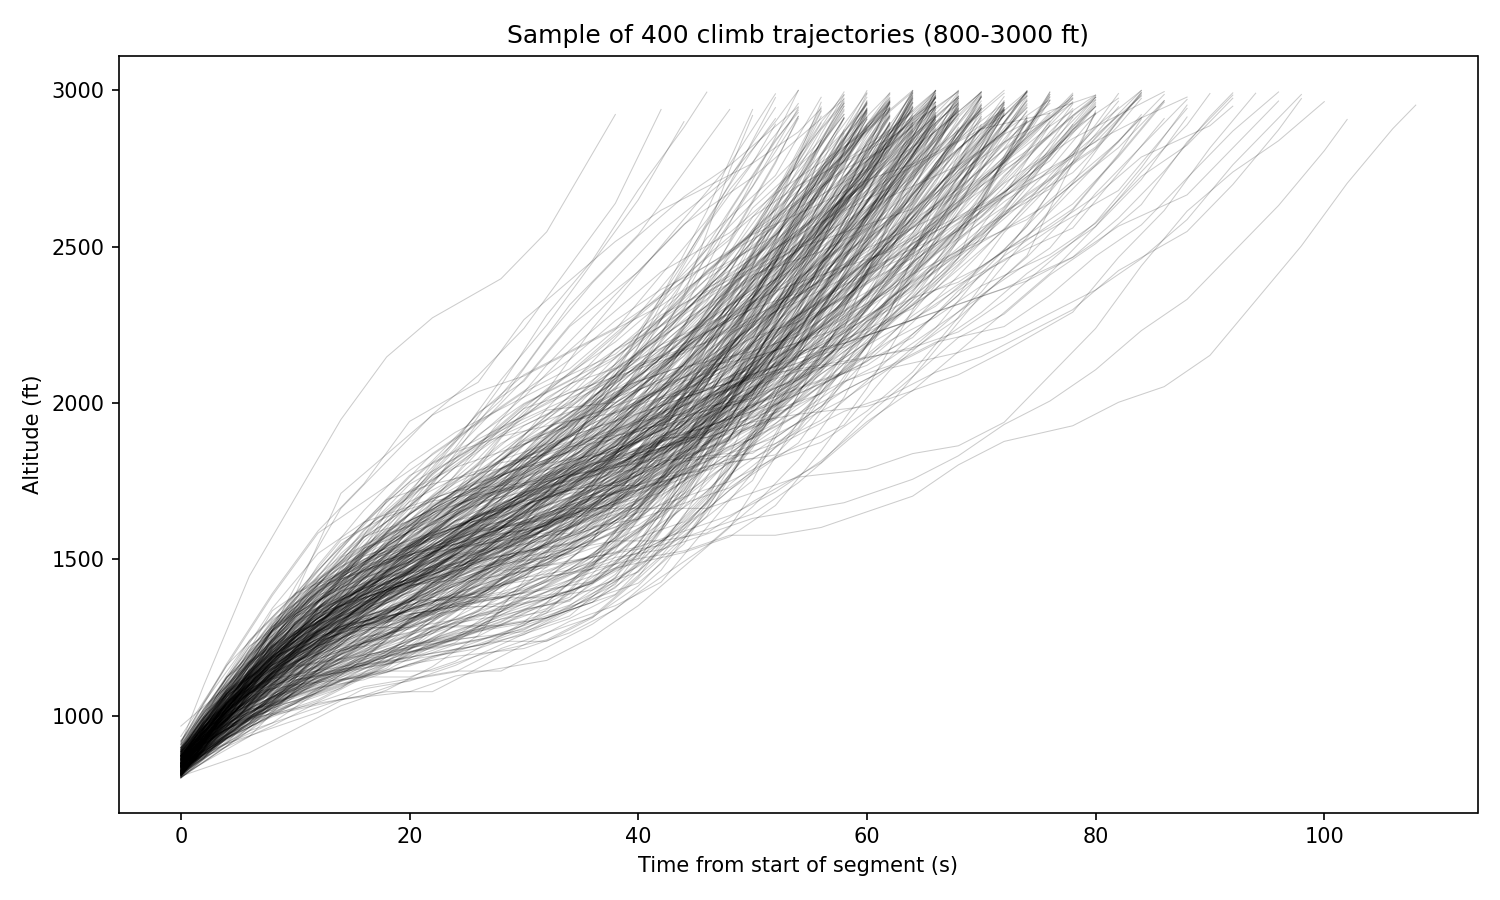
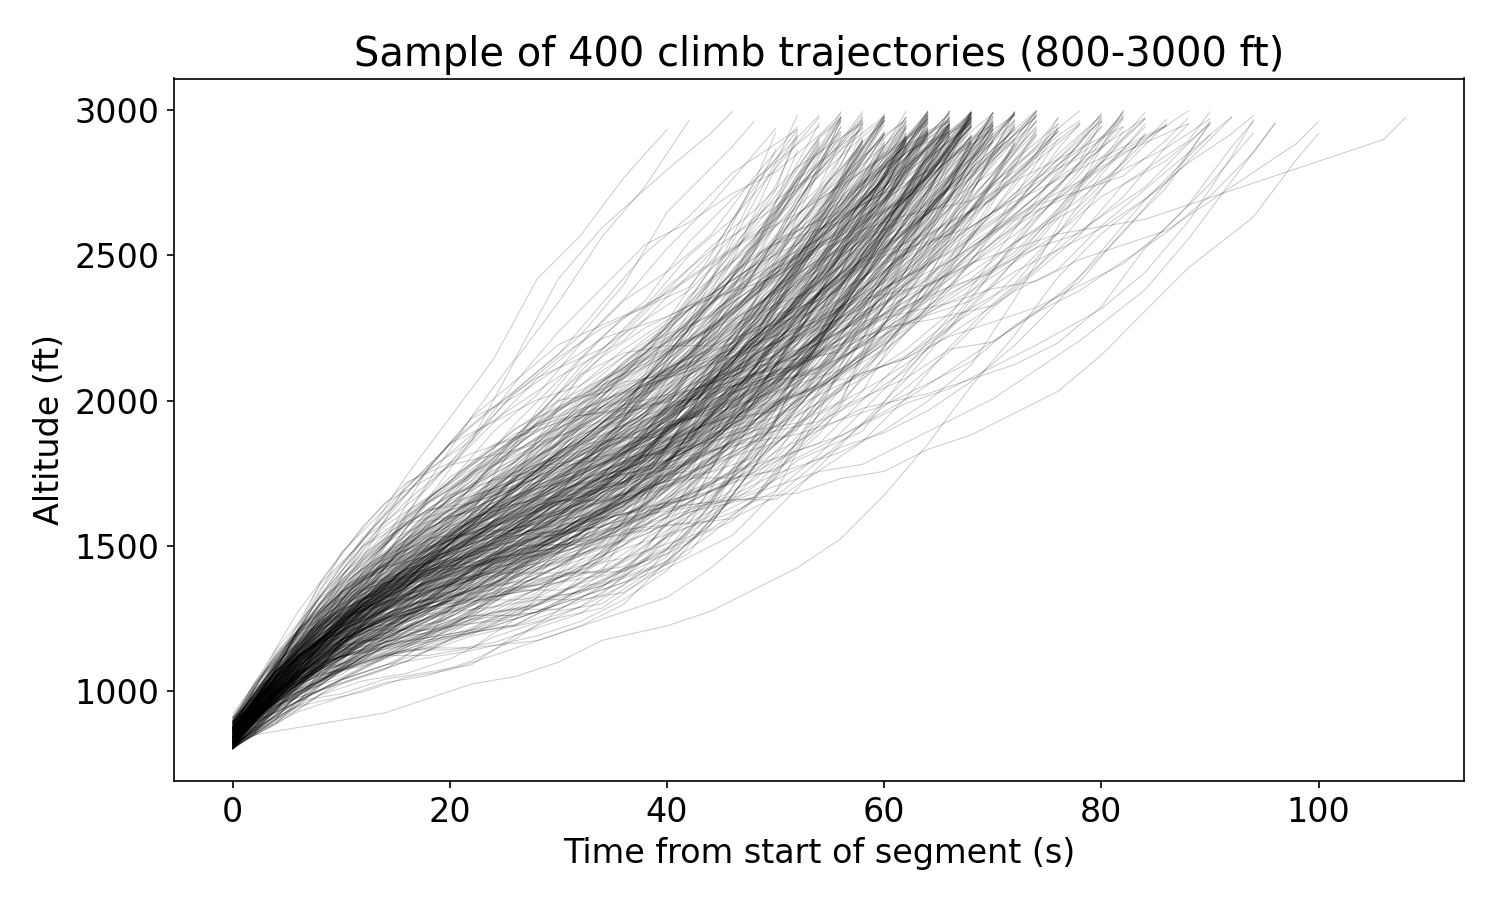
update figures

diff --git a/4_nadp_matching.py b/4_nadp_matching.py
@@ -1,11 +1,11 @@
 """
 
-This script processes aircraft climb trajectory data to classify flights 
-into NADP1 and NADP2 departure procedures using unsupervised clustering. 
-It loads trajectory data, extracts the significant climb phase for each flight, 
-and applies KMeans clustering to group similar climb profiles. 
+This script processes aircraft climb trajectory data to classify flights
+into NADP1 and NADP2 departure procedures using unsupervised clustering.
+It loads trajectory data, extracts the significant climb phase for each flight,
+and applies KMeans clustering to group similar climb profiles.
 
-The clusters are then mapped to NADP types based on vertical rate characteristics, 
+The clusters are then mapped to NADP types based on vertical rate characteristics,
 and the results are visualized and exported for further analysis.
 
 Steps:
@@ -22,6 +22,7 @@ Steps:
 
 # %%
 import os
+
 import matplotlib.pyplot as plt
 import numpy as np
 import pandas as pd
@@ -30,6 +31,9 @@ from traffic.core import Flight, Traffic
 
 # Create plots directory if it doesn't exist
 os.makedirs("plots", exist_ok=True)
+
+# increase matplotlib font size
+plt.rcParams.update({"font.size": 16})
 
 # %%
 t = Traffic.from_file("data/nadp_trajectories.parquet")
@@ -84,9 +88,11 @@ print(f"Cluster 1 count: {np.sum(labels == 1)}")
 
 # %%
 # Merge cluster labels with flight data
-t_nadp = t_initial_climb.merge(pd.DataFrame(dict(flight_id=t.flight_ids, cluster_label=labels)))
+t_nadp = t_initial_climb.merge(
+    pd.DataFrame(dict(flight_id=t.flight_ids, cluster_label=labels))
+)
 
-#%%
+# %%
 # Determine which cluster is NADP1 and NADP2 based on mean vertical rate before FL25
 vs_0_mean = t_nadp.query("altitude<2500 and cluster_label==0").data.vertical_rate.mean()
 vs_1_mean = t_nadp.query("altitude<2500 and cluster_label==1").data.vertical_rate.mean()
@@ -117,8 +123,8 @@ df_nadp.to_csv("data/flight_id_nadp.csv", index=False)
 nadp1_count = df_nadp[df_nadp.nadp == "nadp1"].shape[0]
 nadp2_count = df_nadp[df_nadp.nadp == "nadp2"].shape[0]
 print(f"\nFinal NADP classification:")
-print(f"NADP1 flights: {nadp1_count} ({nadp1_count/len(df_nadp)*100:.1f}%)")
-print(f"NADP2 flights: {nadp2_count} ({nadp2_count/len(df_nadp)*100:.1f}%)")
+print(f"NADP1 flights: {nadp1_count} ({nadp1_count / len(df_nadp) * 100:.1f}%)")
+print(f"NADP2 flights: {nadp2_count} ({nadp2_count / len(df_nadp) * 100:.1f}%)")
 print(f"Total classified: {len(df_nadp)}")
 
 t_nadp = t_initial_climb.merge(df_nadp)
@@ -141,7 +147,7 @@ plt.tight_layout()
 
 
 # %%
-fig, (ax1, ax2) = plt.subplots(2, 1, figsize=(8, 12), sharex=True)
+fig, (ax1, ax2) = plt.subplots(2, 1, figsize=(8, 8), sharex=True)
 
 for i, f in enumerate(t_nadp.query("nadp=='nadp1' and 800<altitude<3000")[:500]):
     ax1.plot(f.data.ts, f.data.altitude, lw=1, color="tab:blue", alpha=0.2)